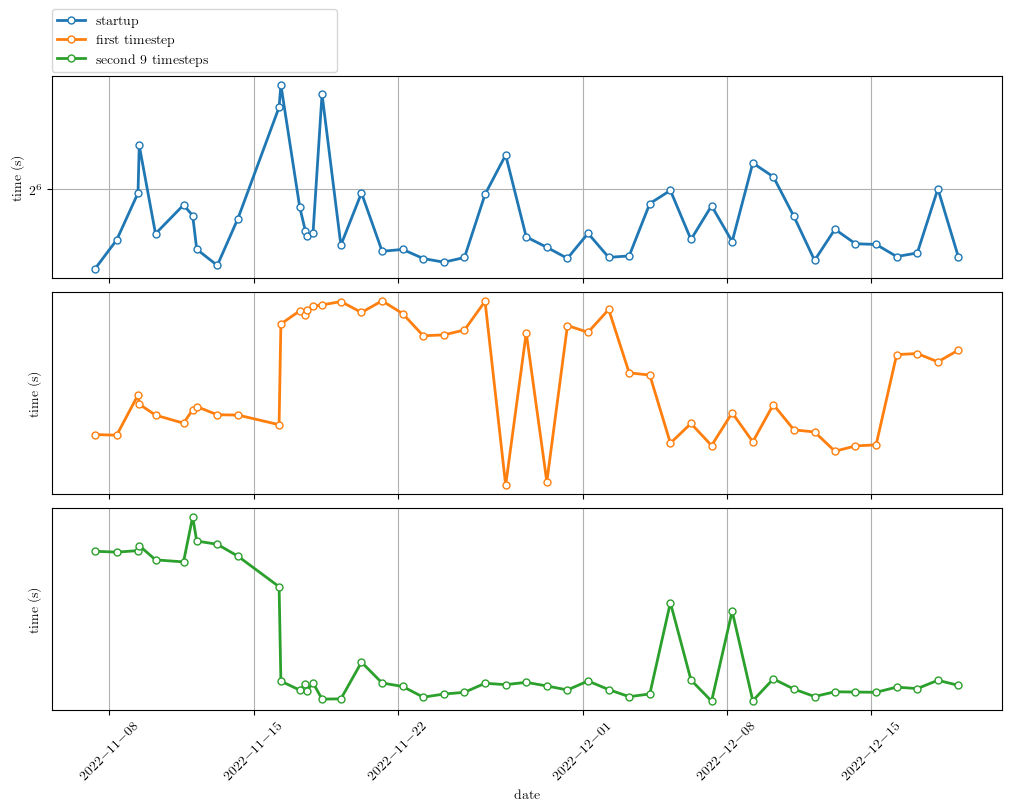
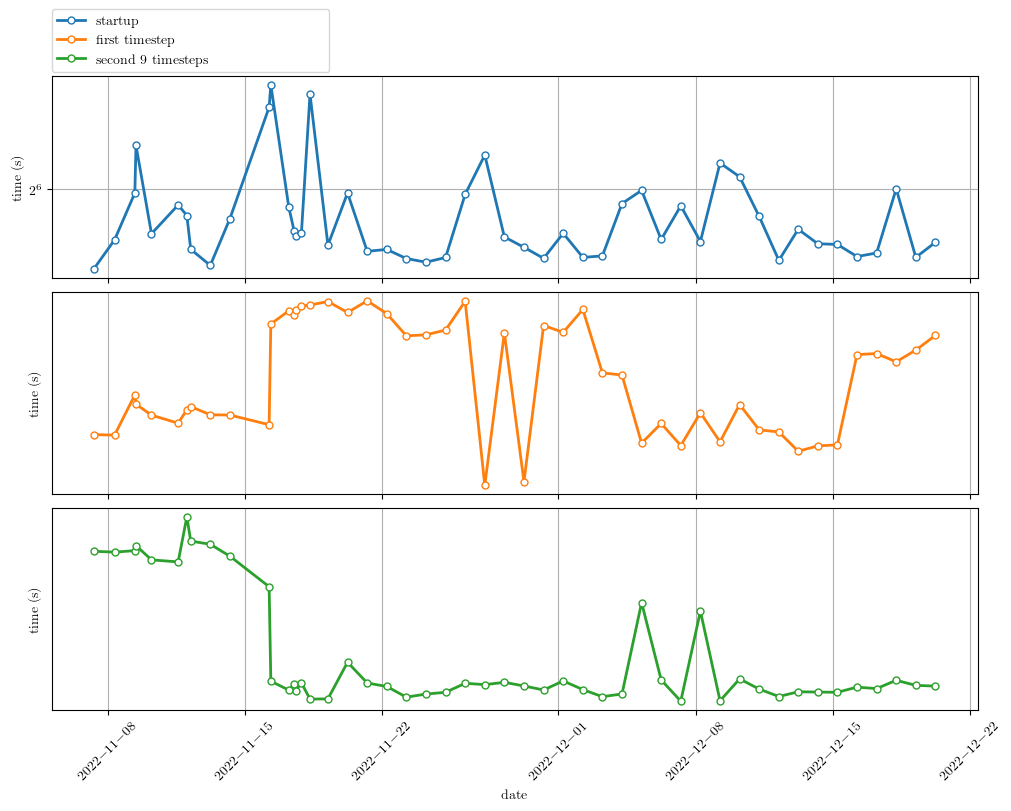
Automatic timing summary commit: lassen708 2022-12-20 05:01

diff --git a/README.md b/README.md
@@ -1,4 +1,4 @@
-Timings last ran on: 2022.12.19
+Timings last ran on: 2022.12.20
 
 # Status of production timings
 
